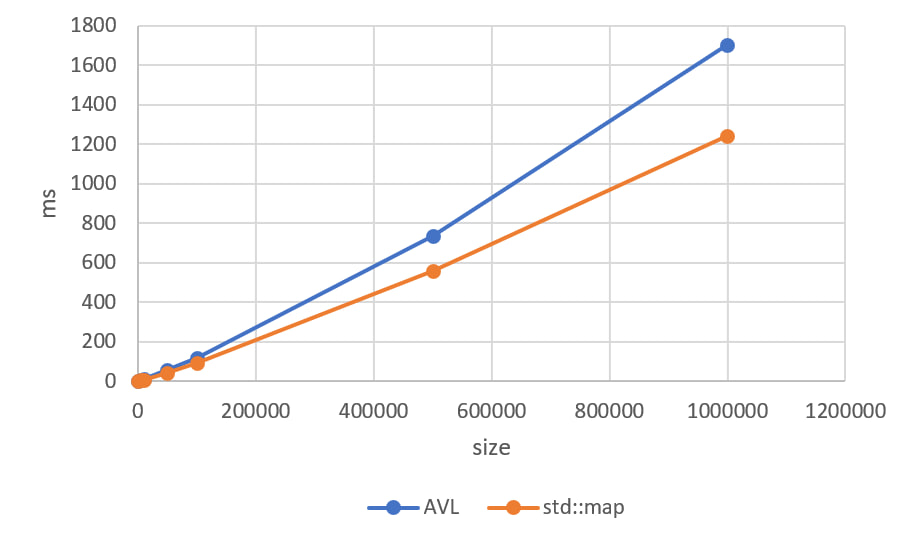
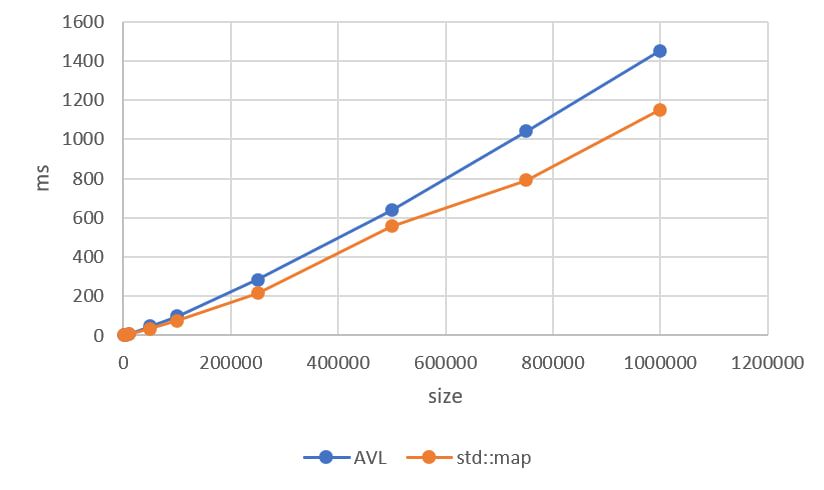
laba5 changes

diff --git a/Lab5CPP/lab5.cpp b/Lab5CPP/lab5.cpp
@@ -28,15 +28,24 @@ long long test_avl(std::string& filename)
     std::ifstream f(filename);
     std::string k, v;
     AVL t;
-    
-    auto start = std::chrono::high_resolution_clock::now();
+
+    std::vector<std::string> keys;
+    std::vector<std::string> values;
+
     while(f >> k >> v) 
     {
-        t.add(k, v);
+        keys.push_back(k);
+        values.push_back(v);
+    }
+
+    f.close();
+    
+    auto start = std::chrono::high_resolution_clock::now();
+    for(size_t i = 0; i < keys.size(); i++)
+    {
+        t.add(keys[i], values[i]);
     }
     auto end = std::chrono::high_resolution_clock::now();
-    
-    f.close();
 
     return std::chrono::duration_cast<std::chrono::milliseconds>(end - start).count();
 }
@@ -46,22 +55,31 @@ long long test_map(std::string& filename)
     std::ifstream f(filename);
     std::string k, v;
     std::map<std::string, std::string> m;
-    
-    auto start = std::chrono::high_resolution_clock::now();
+
+    std::vector<std::string> keys;
+    std::vector<std::string> values;
+
     while(f >> k >> v) 
     {
-        m.insert({k, v});
+        keys.push_back(k);
+        values.push_back(v);
+    }
+
+    f.close();
+    
+    auto start = std::chrono::high_resolution_clock::now();
+    for(size_t i = 0; i < keys.size(); i++)
+    {
+        m.insert({keys[i], values[i]});
     }
     auto end = std::chrono::high_resolution_clock::now();
-    
-    f.close();
 
     return std::chrono::duration_cast<std::chrono::milliseconds>(end - start).count();
 }
 
 int main() 
 {
-    std::vector<int> sizes = {1000, 5000, 10000, 50000, 100000, 500000, 1000000};
+    std::vector<int> sizes = {1000, 5000, 10000, 50000, 100000, 250000, 500000, 750000, 1000000};
     
     std::cout << "Size\tAVL (ms)\tmap (ms)" << std::endl;
     

diff --git a/LibraryCPPClass/Tests/avl.cpp b/LibraryCPPClass/Tests/avl.cpp
@@ -122,10 +122,10 @@ void test_avl_1_million()
         t.add("key_" + std::to_string(i), "value_" + std::to_string(i));
     }
 
-    for(int i = 0; i < 1000; i++) 
+    for(int i = 0; i < 1000000; i++) 
     {
-        check(t.get("key_" + std::to_string(i * 1000), value));
-        check(value == "value_" + std::to_string(i * 1000));
+        check(t.get("key_" + std::to_string(i), value));
+        check(value == "value_" + std::to_string(i));
     }
 
     for(int i = 0; i < 1000000; i++) 

diff --git a/LibraryCPPClass/avl.h b/LibraryCPPClass/avl.h
@@ -27,7 +27,7 @@ private:
 
     node* root;
 
-    int height(node* p);
+    static int height(node* p);
     int bfactor(node* p);
     void fixheight(node* p);
     node* rotateright(node* p);
